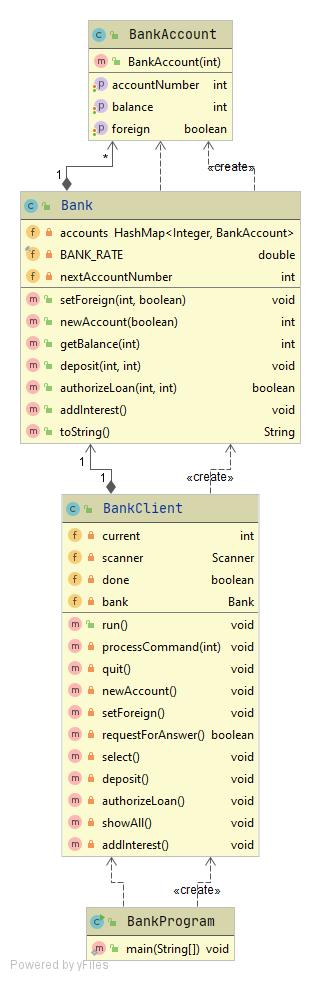
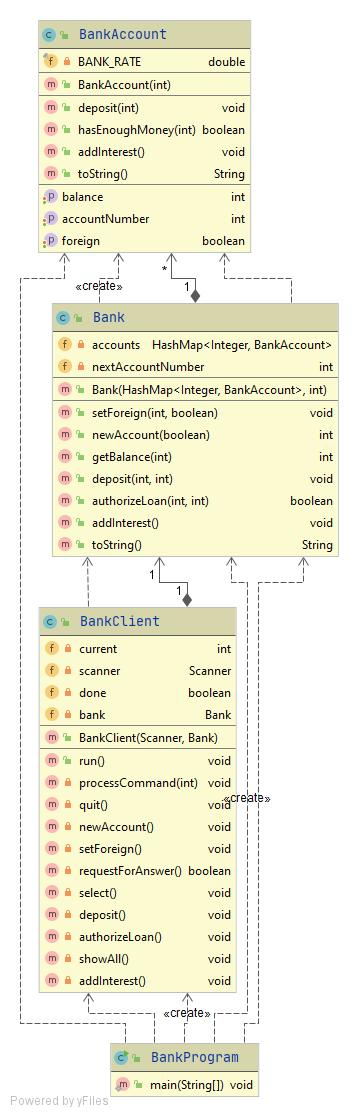
Re-written application according to the requirements like 'The Most Qualified Class Rule'. Inserted dependency injection - using constructor. Finally, BankProgram class now is only the configuration class, also Scanner is closed with try-resources after performed actions.

diff --git a/src/dev/app/bank/Bank.java b/src/dev/app/bank/Bank.java
@@ -16,16 +16,17 @@ public class Bank {
      * the number in the queue of account number as key and
      * additional info about it as value.
      */
-    private HashMap<Integer, BankAccount> accounts
-            = new HashMap<>();
-    /**
-     * Constant represent bank's interest.
-     */
-    private final double BANK_RATE = 0.01;
+    private HashMap<Integer, BankAccount> accounts;
     /**
      * Variable that hold next account number.
      */
     private int nextAccountNumber;
+
+    /**EVC.*/
+    public Bank(HashMap<Integer, BankAccount> accounts, int nextAccountNumber) {
+        this.accounts = accounts;
+        this.nextAccountNumber = nextAccountNumber;
+    }
 
     /**
      * Method that modify type of account domestic<->foreign.
@@ -71,8 +72,7 @@ public class Bank {
      */
     public void deposit(int accountNumber, int amount) {
         BankAccount bankAccount = accounts.get(accountNumber);
-        int balance = bankAccount.getBalance();
-        bankAccount.setBalance(balance + amount);
+        bankAccount.deposit(amount);
     }
 
     /**
@@ -86,8 +86,7 @@ public class Bank {
      */
     public boolean authorizeLoan(int accountNumber, int amountLoan) {
         BankAccount bankAccount = accounts.get(accountNumber);
-        int balance = bankAccount.getBalance();
-        return balance >= amountLoan / 2;
+        return bankAccount.hasEnoughMoney(amountLoan);
     }
 
     /**
@@ -95,9 +94,7 @@ public class Bank {
      */
     public void addInterest() {
         for (BankAccount bankAccount : accounts.values()) {
-            int balance = bankAccount.getBalance();
-            int newBalance = (int) (balance * (1 + BANK_RATE));
-            bankAccount.setBalance(newBalance);
+            bankAccount.addInterest();
         }
     }
 
@@ -110,12 +107,8 @@ public class Bank {
         StringBuilder result = new StringBuilder("The bank has " + accts.size()
                 + " accounts.");
         for (BankAccount bankAccount : accounts.values())
-            result.append("\n\tBank account ")
-                    .append(bankAccount.getAccountNumber())
-                    .append(": balance = ").append(bankAccount.getBalance())
-                    .append(bankAccount.isForeign() ? ", and it's foreign account"
-                            : ", and it's domestic account");
-        return result.toString();
+            result.append("\n\t ").append(bankAccount.toString());
+        return String.valueOf(result);
     }
 
 }

diff --git a/src/dev/app/bank/BankAccount.java b/src/dev/app/bank/BankAccount.java
@@ -7,6 +7,10 @@ package dev.app.bank;
 public class BankAccount {
 
     /**
+     * Constant represent bank's interest.
+     */
+    private final double BANK_RATE = 0.01;
+    /**
      * Variable that hold owner account number.
      */
     private int accountNumber;
@@ -26,6 +30,26 @@ public class BankAccount {
      */
     public BankAccount(int accountNumber) {
         this.accountNumber = accountNumber;
+    }
+
+    public void deposit(int amount) {
+        balance += amount;
+    }
+
+    public boolean hasEnoughMoney(int amountLoan) {
+        return balance >= amountLoan / 2;
+    }
+
+    public void addInterest() {
+        balance += (int) (balance * (1 + BANK_RATE));
+    }
+
+    @Override
+    public String toString() {
+        return "Bank account "
+                + accountNumber + ": balance = " + balance
+                + (isForeign ? ", and it's foreign account"
+                : ", and it's domestic account");
     }
 
     public int getAccountNumber() {
@@ -51,4 +75,5 @@ public class BankAccount {
     public void setForeign(boolean foreign) {
         isForeign = foreign;
     }
+
 }

diff --git a/src/dev/app/bank/BankClient.java b/src/dev/app/bank/BankClient.java
@@ -18,17 +18,25 @@ public class BankClient {
     /**
      * Variable that creates instance of Scanner.
      */
-    private Scanner scanner = new Scanner(System.in);
+    private Scanner scanner;
 
     /**
      * Variable responsible for program status.
      */
-    private boolean done = false;
+    private boolean done;
 
     /**
      * Variable that holds link to the bank object.
      */
-    private Bank bank = new Bank();
+    private Bank bank;
+
+    /**
+     * EVC.
+     */
+    public BankClient(Scanner scanner, Bank bank) {
+        this.scanner = scanner;
+        this.bank = bank;
+    }
 
     /**
      * Print the menu into the console and wait for user's input.

diff --git a/src/dev/app/bank/BankProgram.java b/src/dev/app/bank/BankProgram.java
@@ -1,5 +1,8 @@
 package dev.app.bank;
 
+import java.util.HashMap;
+import java.util.Scanner;
+
 /**
  * Class that keeps the components into one.
  *
@@ -13,8 +16,12 @@ public class BankProgram {
      * @param args array of string's arguments
      */
     public static void main(String[] args) {
-        BankClient client = new BankClient();
-        client.run();
+        HashMap<Integer, BankAccount> bankAccountCollection = new HashMap<>();
+        Bank bank = new Bank(bankAccountCollection, 0);
+        try (Scanner scanner = new Scanner(System.in)) {
+            BankClient client = new BankClient(scanner, bank);
+            client.run();
+        }
     }
 
 }
